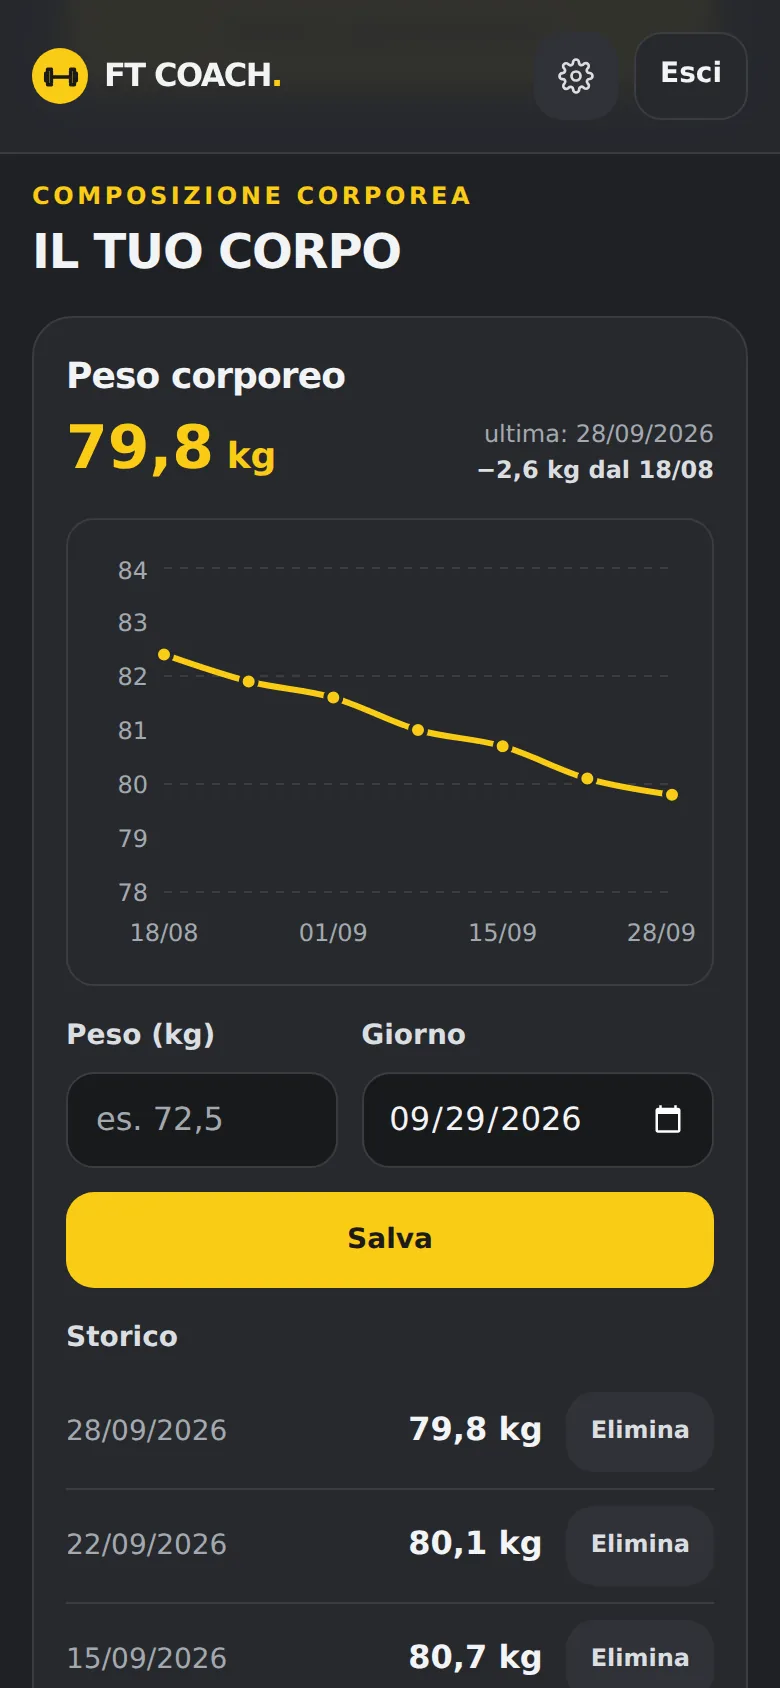
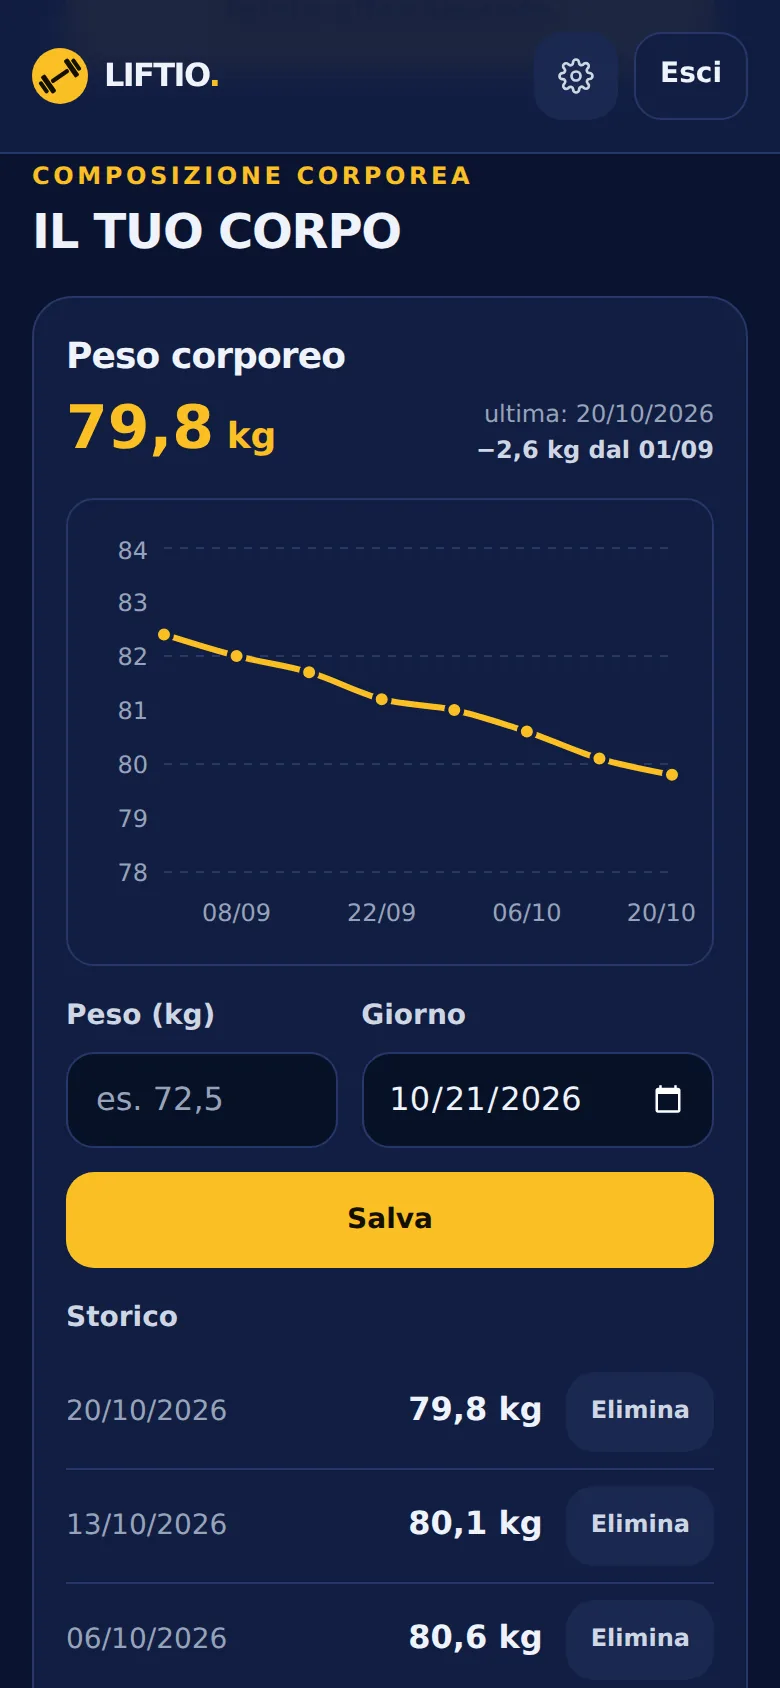
README: Liftio, link a liftio.it e screenshot nuovi

Changed region(s): [[0.0308, 0.0, 0.9846, 1.0], [0.9538, 0.0308, 0.9846, 0.0616], [0.9231, 0.0, 0.9538, 0.0308]]

diff --git a/README.md b/README.md
@@ -7,9 +7,9 @@ The trainer builds training plans, clients log every set from their phone at the
 
 I'm a junior developer and I prepare personalized training plans: I built Liftio (formerly FT Coach) to manage them, and it's used by my real clients.
 
-🔗 **[Live app](https://ft-coach.pages.dev)** · **[Backend repo](https://github.com/Felice556/ft-coach-backend)**
+🔗 **[Live app: liftio.it](https://liftio.it)** · **[Backend repo](https://github.com/Felice556/ft-coach-backend)**
 
-> Sign-up is invite-only (clients join with a code from their trainer), so the screenshots below show the app with demo data.
+> Clients join with a code from their trainer and new trainers must be approved, so the screenshots below show the app with demo data.
 
 ![Liftio screenshots](docs/screenshots/hero.webp)
 
@@ -33,22 +33,34 @@ I'm a junior developer and I prepare personalized training plans: I built Liftio
 - **Body composition** — log clients' body-fat % and see their body weight, both charted
 - **Skinfold calculator** — 3 or 7 skinfolds (Jackson & Pollock + Siri) give the body-fat %, fat and lean mass in kg; one tap saves it to the client's body fat
 - **Invites** — single-use, expiring codes shared via WhatsApp/SMS with a pre-filled sign-up link
-- **More trainers, kept apart** — the admin invites new trainers with a trainer invite; each trainer has their own area and sees only their own clients
-- **Account management** — change a client's email or set a temporary password without ever seeing their password
+- **More trainers, kept apart** — each trainer has their own area and sees only their own clients; a new trainer joins with an invite from the admin, or signs up on their own and waits for the admin's approval
+- **Admin tools** — approve or reject new trainers (with how many clients they train), an overview of every trainer's activity (numbers only), and suspend/reactivate a trainer without deleting any data
+- **Account management** — change a client's email, set a temporary password without ever seeing their password, or suspend a client's access (nothing is deleted, one tap to reactivate)
 - **Nothing gets lost** — plans and exercises are archived, not deleted, so the history is always kept
 
 ### Everywhere
 - 📱 Installable **PWA**, designed for one-hand use at the gym (big touch targets, sticky timer, safe areas on iPhone)
 - 🌗 **Light / dark / automatic theme**, applied before the first paint (no flash)
 - 🔒 **Sessions that renew themselves**: active users never have to log in again, but a password change logs out every device
-- 🇪🇺 **Privacy**: GDPR notice and explicit consent for health data at sign-up
+- 🇪🇺 **Privacy**: GDPR notice, explicit consent for health data at sign-up, and **delete your own account** from Settings (password + typed confirmation)
 
 ---
 
 ## 📸 Screenshots
 
-| Login | Client home | Workout + rest timer | Body weight |
+| Login | Client home | Workout + rest timer | Load history |
 |:---:|:---:|:---:|:---:|
+| <img src="docs/screenshots/login.webp" width="200" alt="Login"> | <img src="docs/screenshots/client-home.webp" width="200" alt="Client home"> | <img src="docs/screenshots/client-workout-timer.webp" width="200" alt="Workout with rest timer and load history"> | <img src="docs/screenshots/client-load-history.webp" width="200" alt="Load history of an exercise"> |
+
+| Trainer dashboard | History per exercise | History per workout | Body composition |
+|:---:|:---:|:---:|:---:|
+| <img src="docs/screenshots/trainer-dashboard.webp" width="200" alt="Trainer dashboard"> | <img src="docs/screenshots/trainer-history-exercise.webp" width="200" alt="History per exercise"> | <img src="docs/screenshots/trainer-history-workouts.webp" width="200" alt="History per workout"> | <img src="docs/screenshots/trainer-body-composition.webp" width="200" alt="Body composition"> |
+
+| Body weight (client) | New trainer requests (admin) | Trainers overview (admin) |
+|:---:|:---:|:---:|
+| <img src="docs/screenshots/client-body.webp" width="200" alt="Body weight"> | <img src="docs/screenshots/admin-trainer-requests.webp" width="200" alt="Trainers waiting for approval"> | <img src="docs/screenshots/admin-trainers-overview.webp" width="200" alt="Trainers overview"> |
+
+---:|:---:|:---:|:---:|
 | <img src="docs/screenshots/login.webp" width="200" alt="Login"> | <img src="docs/screenshots/client-home.webp" width="200" alt="Client home"> | <img src="docs/screenshots/client-workout-timer.webp" width="200" alt="Workout with rest timer"> | <img src="docs/screenshots/client-body.webp" width="200" alt="Body weight"> |
 
 | Trainer dashboard | History per exercise | History per workout | Body composition |
